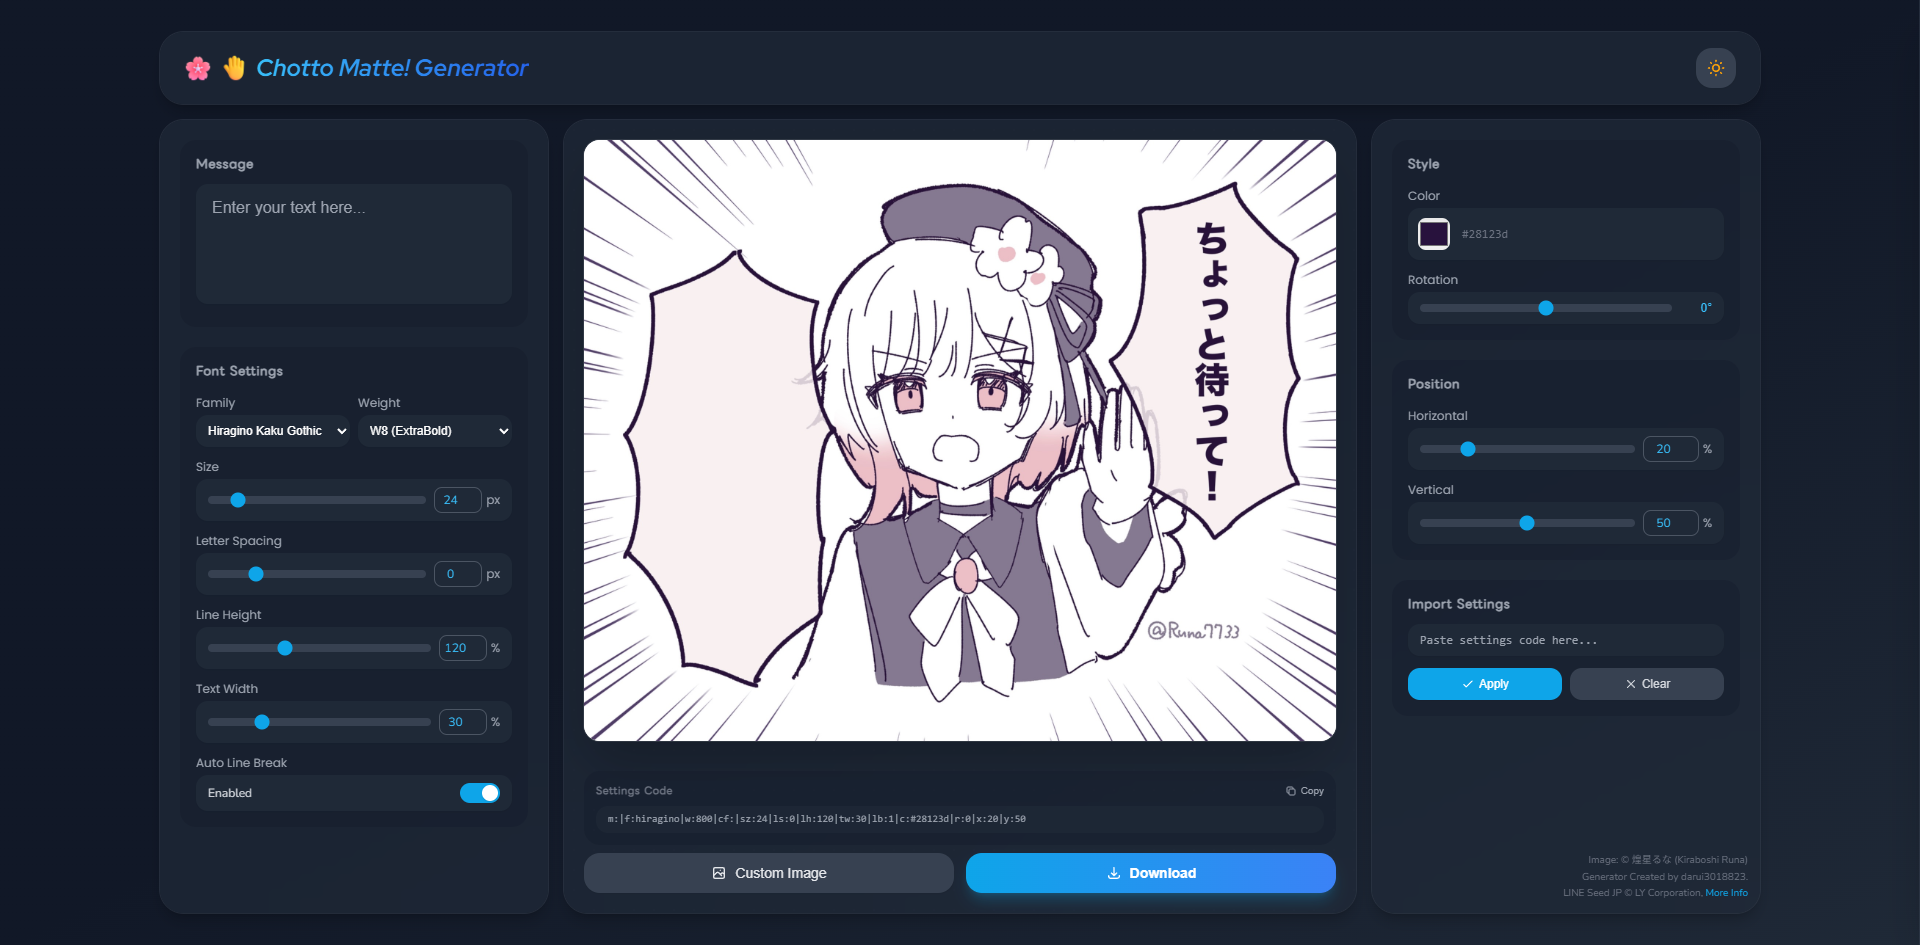
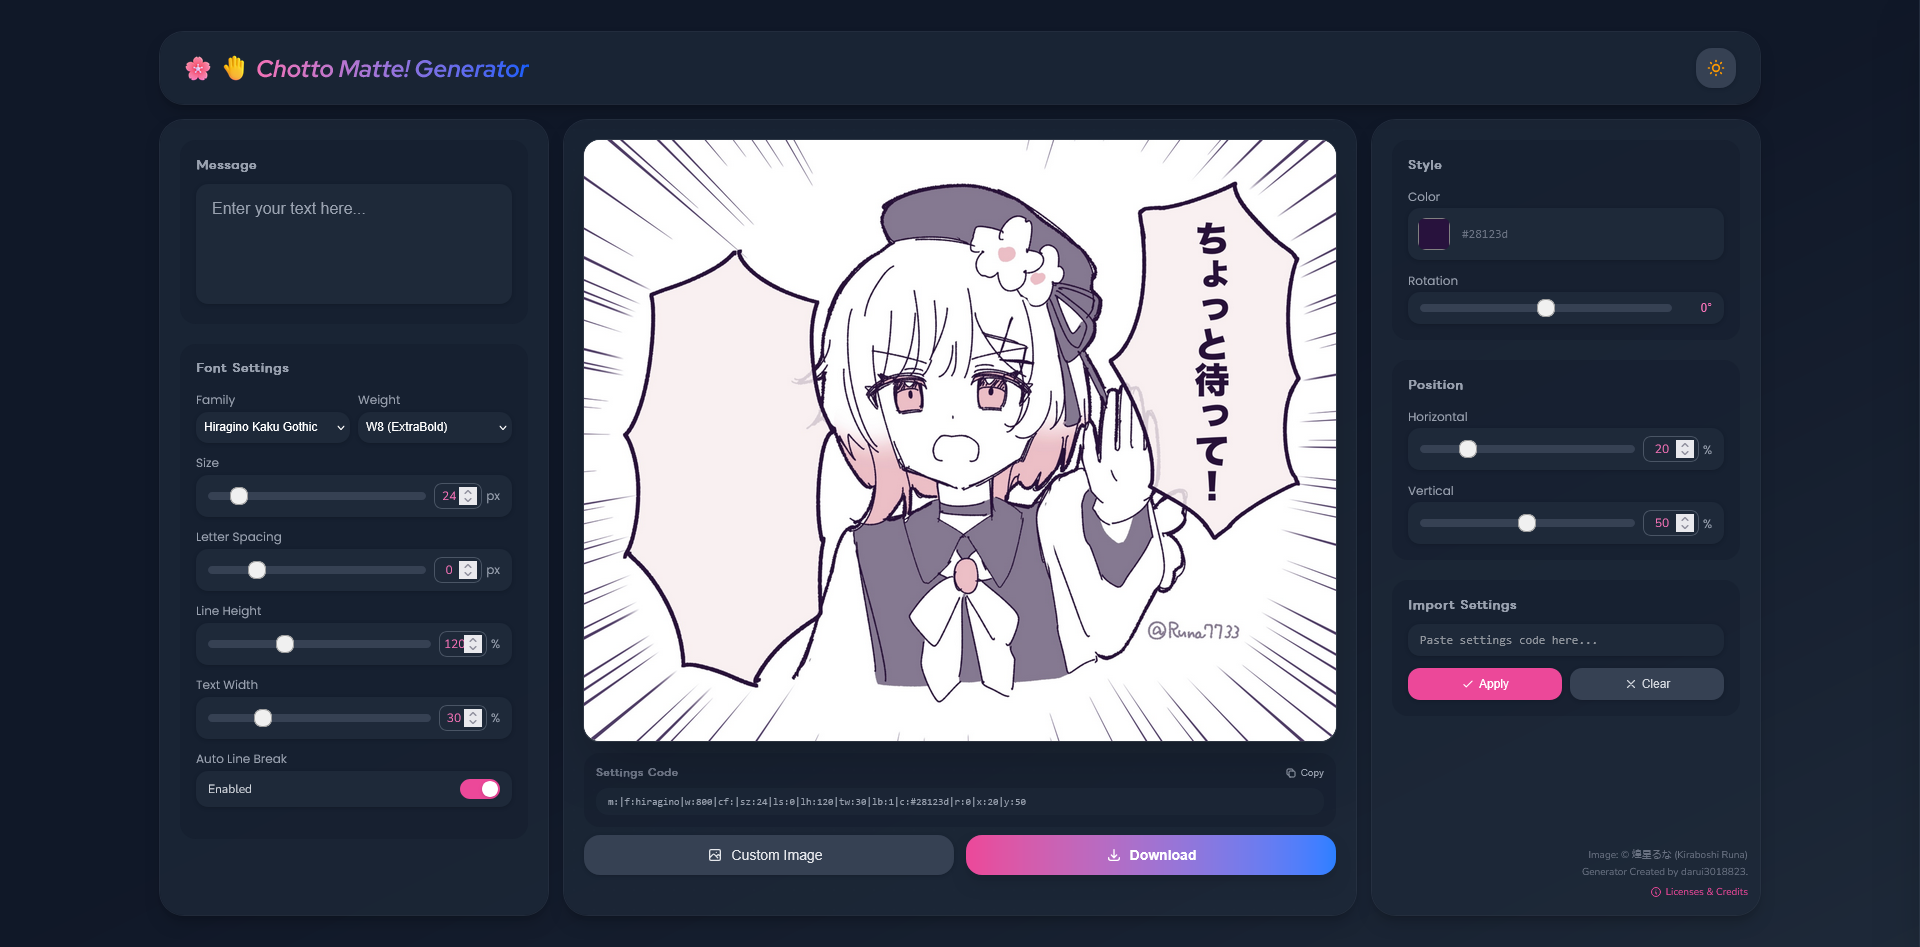
Fix vertical text rendering in canvas download and add compatibility notes to README
- Fixed column alignment in vertical writing mode for downloaded images
- Characters in each column now align at the top consistently with preview
- Added browser compatibility information (Chrome, Firefox, Edge)
- Added display environment specifications (1920x1080, 90px header, ~47px taskbar)
- Added language switcher links between English and Japanese READMEs

diff --git a/js/script.js b/js/script.js
@@ -385,25 +385,24 @@ document.addEventListener('DOMContentLoaded', () => {
             // Get text overlay and image rects for position calculation
             const overlayStyles = getComputedStyle(textOverlay);
             const imgRect = img.getBoundingClientRect();
-            const overlayRect = textOverlay.getBoundingClientRect();
 
             // Calculate scale factor between displayed and natural size
             const scaleX = naturalWidth / imgRect.width;
             const scaleY = naturalHeight / imgRect.height;
-
-            // Get the center position of the text overlay relative to the image
-            const overlayCenterX = overlayRect.left + overlayRect.width / 2 - imgRect.left;
-            const overlayCenterY = overlayRect.top + overlayRect.height / 2 - imgRect.top;
-
-            // Scale to natural image coordinates
-            const textX = overlayCenterX * scaleX;
-            const textY = overlayCenterY * scaleY;
 
             // Get text properties
             const text = textOverlay.textContent;
             if (!text) {
                 throw new Error('No text to render');
             }
+
+            // Get position from CSS (percentage values)
+            const posXPercent = parseFloat(textOverlay.style.left) || parseFloat(posXSlider.value) || 20;
+            const posYPercent = parseFloat(textOverlay.style.top) || parseFloat(posYSlider.value) || 50;
+
+            // Convert percentage to actual canvas coordinates
+            const textX = (posXPercent / 100) * naturalWidth;
+            const textY = (posYPercent / 100) * naturalHeight;
 
             const fontSize = parseFloat(fontSizeSlider.value) * scaleX;
             const letterSpacing = parseFloat(letterSpacingSlider.value) * scaleX;
@@ -427,20 +426,87 @@ document.addEventListener('DOMContentLoaded', () => {
             ctx.textBaseline = 'middle';
             ctx.textAlign = 'center';
 
+            // Debug logging
+            console.log('Canvas render debug:', {
+                textX, textY,
+                fontSize,
+                letterSpacing,
+                lineHeightVal,
+                columnWidth: fontSize * lineHeightVal,
+                charHeight: fontSize + letterSpacing,
+                text,
+                fontFamily,
+                fontWeight,
+                textColor
+            });
+
             // Vertical writing mode - draw character by character
-            const charHeight = fontSize * lineHeightVal;
+            // In CSS vertical-rl with text-orientation: upright:
+            // - letterSpacing affects vertical spacing between characters
+            // - lineHeight affects column width (horizontal spacing between lines/columns)
+            const charHeight = fontSize + letterSpacing;
+            const columnWidth = fontSize * lineHeightVal;
 
-            // Split by newlines for multi-column handling (vertical-rl: right to left)
-            const lines = text.split('\n');
-            const columnWidth = fontSize + letterSpacing;
+            // Get text width percentage for calculating available space
+            const textWidthPercent = parseFloat(textOverlay.style.width) || parseFloat(textWidthSlider.value) || 30;
+            const overlayWidthScaled = (textWidthPercent / 100) * naturalWidth;
 
-            // Start from the rightmost column (first line goes to the right)
-            let currentColumnOffset = (lines.length - 1) * columnWidth / 2;
+            // Calculate how many characters fit vertically
+            // Use a reasonable max height (80% of image height for text area)
+            const maxTextHeight = naturalHeight * 0.9;
+            const maxCharsPerColumn = Math.max(1, Math.floor(maxTextHeight / charHeight));
+            const maxColumns = Math.max(1, Math.floor(overlayWidthScaled / columnWidth));
 
-            lines.forEach((line) => {
+            // Build columns based on auto line break and newline characters
+            const columns = [];
+            let currentColumn = '';
+            let currentCount = 0;
+            const pushColumn = () => {
+                if (currentColumn.length > 0) {
+                    columns.push(currentColumn);
+                }
+                currentColumn = '';
+                currentCount = 0;
+            };
+
+            for (const ch of text.replace(/\r\n?/g, '\n')) {
+                if (ch === '\n') {
+                    pushColumn();
+                    continue;
+                }
+
+                currentColumn += ch;
+                currentCount += 1;
+
+                if (autoLineBreakEnabled && currentCount >= maxCharsPerColumn) {
+                    pushColumn();
+                }
+            }
+            if (currentColumn.length > 0) {
+                pushColumn();
+            }
+
+            // Trim to available columns if text exceeds overlay width
+            const limitedColumns = columns.slice(0, maxColumns);
+
+            // Calculate total width of all columns
+            const totalColumnsWidth = limitedColumns.length * columnWidth;
+
+            // Find the maximum column length for alignment
+            const maxColumnLength = Math.max(...limitedColumns.map(col => [...col].length));
+            const maxTotalHeight = maxColumnLength * charHeight;
+
+            // Start from the rightmost position (vertical-rl: first column is on the right)
+            // Center the entire text block at the position
+            let currentColumnOffset = (totalColumnsWidth / 2) - (columnWidth / 2);
+
+            // Calculate common startY based on max column height (top-aligned within centered block)
+            const commonStartY = -maxTotalHeight / 2 + charHeight / 2;
+
+            limitedColumns.forEach((line) => {
                 const lineChars = [...line];
-                const totalHeight = lineChars.length * charHeight;
-                let startY = -totalHeight / 2 + charHeight / 2;
+                // All columns start from the same top position (top-aligned)
+                let startY = commonStartY;
 
                 lineChars.forEach((char, charIndex) => {
                     const y = startY + charIndex * charHeight;

diff --git a/css/tailwind.css b/css/tailwind.css
@@ -7,16 +7,19 @@
       "Segoe UI Emoji", "Segoe UI Symbol", "Noto Color Emoji";
     --font-mono: ui-monospace, SFMono-Regular, Menlo, Monaco, Consolas, "Liberation Mono",
       "Courier New", monospace;
+    --color-red-500: oklch(63.7% 0.237 25.331);
     --color-amber-50: oklch(98.7% 0.022 95.277);
     --color-amber-400: oklch(82.8% 0.189 84.429);
     --color-amber-500: oklch(76.9% 0.188 70.08);
     --color-amber-900: oklch(41.4% 0.112 45.904);
     --color-green-500: oklch(72.3% 0.219 149.579);
+    --color-emerald-500: oklch(69.6% 0.17 162.48);
     --color-sky-400: oklch(74.6% 0.16 232.661);
     --color-sky-500: oklch(68.5% 0.169 237.323);
     --color-blue-50: oklch(97% 0.014 254.604);
     --color-blue-500: oklch(62.3% 0.214 259.815);
     --color-blue-600: oklch(54.6% 0.245 262.881);
+    --color-rose-500: oklch(64.5% 0.246 16.439);
     --color-gray-50: oklch(98.5% 0.002 247.839);
     --color-gray-100: oklch(96.7% 0.003 264.542);
     --color-gray-200: oklch(92.8% 0.006 264.531);
@@ -52,6 +55,7 @@
     --radius-2xl: 1rem;
     --radius-3xl: 1.5rem;
     --ease-out: cubic-bezier(0, 0, 0.2, 1);
+    --animate-spin: spin 1s linear infinite;
     --blur-sm: 8px;
     --blur-xl: 24px;
     --default-transition-duration: 150ms;
@@ -411,6 +415,9 @@
   .transform {
     transform: var(--tw-rotate-x,) var(--tw-rotate-y,) var(--tw-rotate-z,) var(--tw-skew-x,) var(--tw-skew-y,);
   }
+  .animate-spin {
+    animation: var(--animate-spin);
+  }
   .cursor-help {
     cursor: help;
   }
@@ -644,12 +651,20 @@
     --tw-gradient-from: var(--color-gray-100);
     --tw-gradient-stops: var(--tw-gradient-via-stops, var(--tw-gradient-position), var(--tw-gradient-from) var(--tw-gradient-from-position), var(--tw-gradient-to) var(--tw-gradient-to-position));
   }
+  .from-green-500 {
+    --tw-gradient-from: var(--color-green-500);
+    --tw-gradient-stops: var(--tw-gradient-via-stops, var(--tw-gradient-position), var(--tw-gradient-from) var(--tw-gradient-from-position), var(--tw-gradient-to) var(--tw-gradient-to-position));
+  }
   .from-primary-400 {
     --tw-gradient-from: var(--color-primary-400);
     --tw-gradient-stops: var(--tw-gradient-via-stops, var(--tw-gradient-position), var(--tw-gradient-from) var(--tw-gradient-from-position), var(--tw-gradient-to) var(--tw-gradient-to-position));
   }
   .from-primary-500 {
     --tw-gradient-from: var(--color-primary-500);
+    --tw-gradient-stops: var(--tw-gradient-via-stops, var(--tw-gradient-position), var(--tw-gradient-from) var(--tw-gradient-from-position), var(--tw-gradient-to) var(--tw-gradient-to-position));
+  }
+  .from-red-500 {
+    --tw-gradient-from: var(--color-red-500);
     --tw-gradient-stops: var(--tw-gradient-via-stops, var(--tw-gradient-position), var(--tw-gradient-from) var(--tw-gradient-from-position), var(--tw-gradient-to) var(--tw-gradient-to-position));
   }
   .via-gray-50 {
@@ -667,6 +682,14 @@
   }
   .to-blue-600 {
     --tw-gradient-to: var(--color-blue-600);
+    --tw-gradient-stops: var(--tw-gradient-via-stops, var(--tw-gradient-position), var(--tw-gradient-from) var(--tw-gradient-from-position), var(--tw-gradient-to) var(--tw-gradient-to-position));
+  }
+  .to-emerald-500 {
+    --tw-gradient-to: var(--color-emerald-500);
+    --tw-gradient-stops: var(--tw-gradient-via-stops, var(--tw-gradient-position), var(--tw-gradient-from) var(--tw-gradient-from-position), var(--tw-gradient-to) var(--tw-gradient-to-position));
+  }
+  .to-rose-500 {
+    --tw-gradient-to: var(--color-rose-500);
     --tw-gradient-stops: var(--tw-gradient-via-stops, var(--tw-gradient-position), var(--tw-gradient-from) var(--tw-gradient-from-position), var(--tw-gradient-to) var(--tw-gradient-to-position));
   }
   .bg-clip-text {
@@ -840,6 +863,12 @@
   }
   .opacity-0 {
     opacity: 0%;
+  }
+  .opacity-25 {
+    opacity: 25%;
+  }
+  .opacity-75 {
+    opacity: 75%;
   }
   .opacity-100 {
     opacity: 100%;
@@ -1524,6 +1553,11 @@
 @property --tw-ease {
   syntax: "*";
   inherits: false;
+}
+@keyframes spin {
+  to {
+    transform: rotate(360deg);
+  }
 }
 @layer properties {
   @supports ((-webkit-hyphens: none) and (not (margin-trim: inline))) or ((-moz-orient: inline) and (not (color:rgb(from red r g b)))) {

diff --git a/Readme_ja.md b/Readme_ja.md
@@ -1,11 +1,13 @@
 # Chotto Matte! Generator
 
+> [English version / 英語版はこちら](./README.md)
+
 <table>
 <tr>
 <td width="50%">
 
 ![Example 1](./assets/example.png)
-<p align="center"><em>テキストオーバーレイの例</em></p>
+<p align="center"><em>ページのイメージ</em></p>
 
 </td>
 <td width="50%">
@@ -68,8 +70,22 @@ x: 水平位置(%)
 y: 垂直位置(%)
 ```
 
+## 設定コード共有時の互換性について
+
+設定コードを使ってレイアウトを共有する場合、以下の環境を基準に作成されています。
+
+- **画面解像度**: 1920×1080
+- **ブラウザヘッダー**: 約90px（ブックマークバー非表示）
+- **タスクバー**: Windows 11 標準の47px
+
+**動作確認済みブラウザ**（いずれもブックマークバー非表示）:
+- Google Chrome
+- Mozilla Firefox
+- Microsoft Edge (Chromium)
+
+> 💡 タスクバーの高さについては多少の余裕を持たせて設計しているため、50px程度までであれば問題なく表示されます。一般的な Windows の設定であれば、特別な調整なしにほぼ同じレイアウトで共有できます。
+
 ## 補足と既知の制限
-- Download ボタンは現在ブラウザの「画像を保存」で対応。html2canvas による書き出しは未組み込みです。
 - Tailwind は CDN と小さな設定のみでビルド工程は不要です。
 - LINE Seed JP はローカル同梱、その他のフォントは Google Fonts CDN から取得します。
 

diff --git a/README.md b/README.md
@@ -1,11 +1,13 @@
 # Chotto Matte! Generator
 
+> [日本語版はこちら / Japanese version](./Readme_ja.md)
+
 <table>
 <tr>
 <td width="50%">
 
 ![Example 1](./assets/example.png)
-<p align="center"><em>Text overlay example</em></p>
+<p align="center"><em>Page image</em></p>
 
 </td>
 <td width="50%">
@@ -69,8 +71,22 @@ x: horizontal position (%)
 y: vertical position (%)
 ```
 
+## Settings Code Compatibility
+
+When sharing layout settings via the settings code, the following environment is used as the baseline:
+
+- **Screen resolution**: 1920×1080
+- **Browser header**: Approximately 90px (bookmark bar hidden)
+- **Taskbar**: Windows 11 default of 47px
+
+**Tested browsers** (all with bookmark bar hidden):
+- Google Chrome
+- Mozilla Firefox
+- Microsoft Edge (Chromium)
+
+> 💡 The layout has some tolerance built in for taskbar height variations—up to around 50px should display without issues. If you're using typical Windows settings, layouts should transfer smoothly without any special adjustments.
+
 ## Notes and Limitations
-- Download button currently shows a hint to save via the browser; rasterized export with html2canvas is not yet wired.
 - The app relies on Tailwind CDN plus a small inline config; no build step is required.
 - LINE Seed JP is bundled locally; other families load from Google Fonts CDN when chosen.
 
